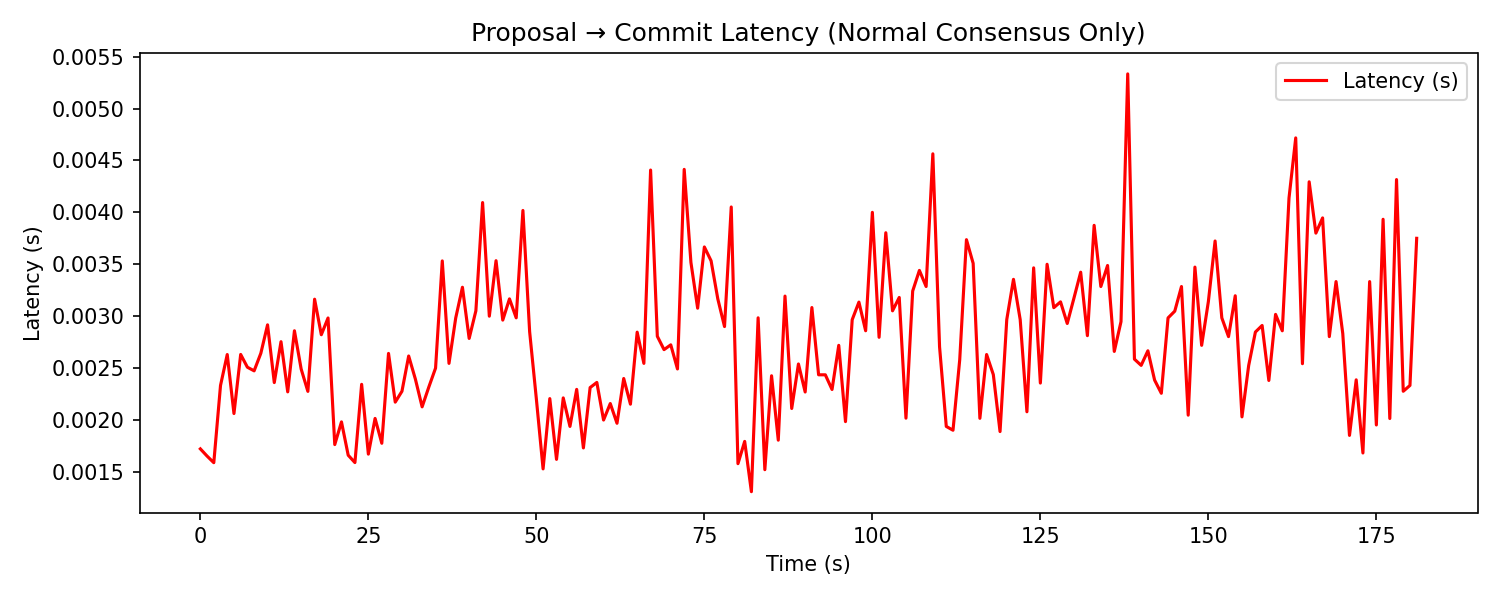
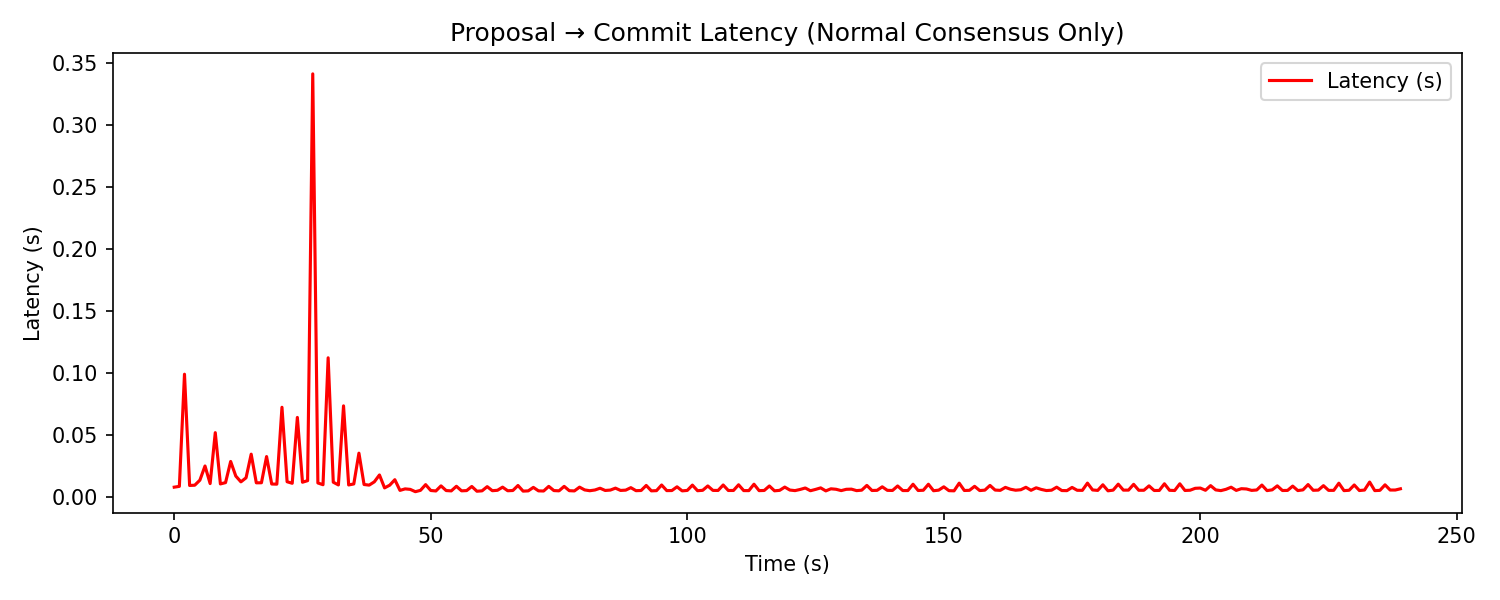
testing

diff --git a/src/overlay/OverlayManagerImpl.cpp b/src/overlay/OverlayManagerImpl.cpp
@@ -1884,16 +1884,16 @@ OverlayManagerImpl::prop()
         
 
 
-        // if (txn_count >= 200000 && txn_count < 200100) 
-        // {
-        //     CLOG_INFO(Overlay, "Forcing COLLECT round at txn_count={}", txn_count);
+        if (currentView >= 70000 && currentView < 71000) 
+        {
+            CLOG_INFO(Overlay, "Forcing COLLECT round at txn_count={}", txn_count);
 
-        //     // artificially "desync" latestCommittedView
-        //     latestCommittedView = currentView - 2;  
-        //     // forceCollectRound = 1;  // only do this once
+            // artificially "desync" latestCommittedView
+            latestCommittedView = currentView - 2;  
+            // forceCollectRound = 1;  // only do this once
 
 
-        // }
+        }
 
 
         if (latestCommittedView == currentView - 1)
